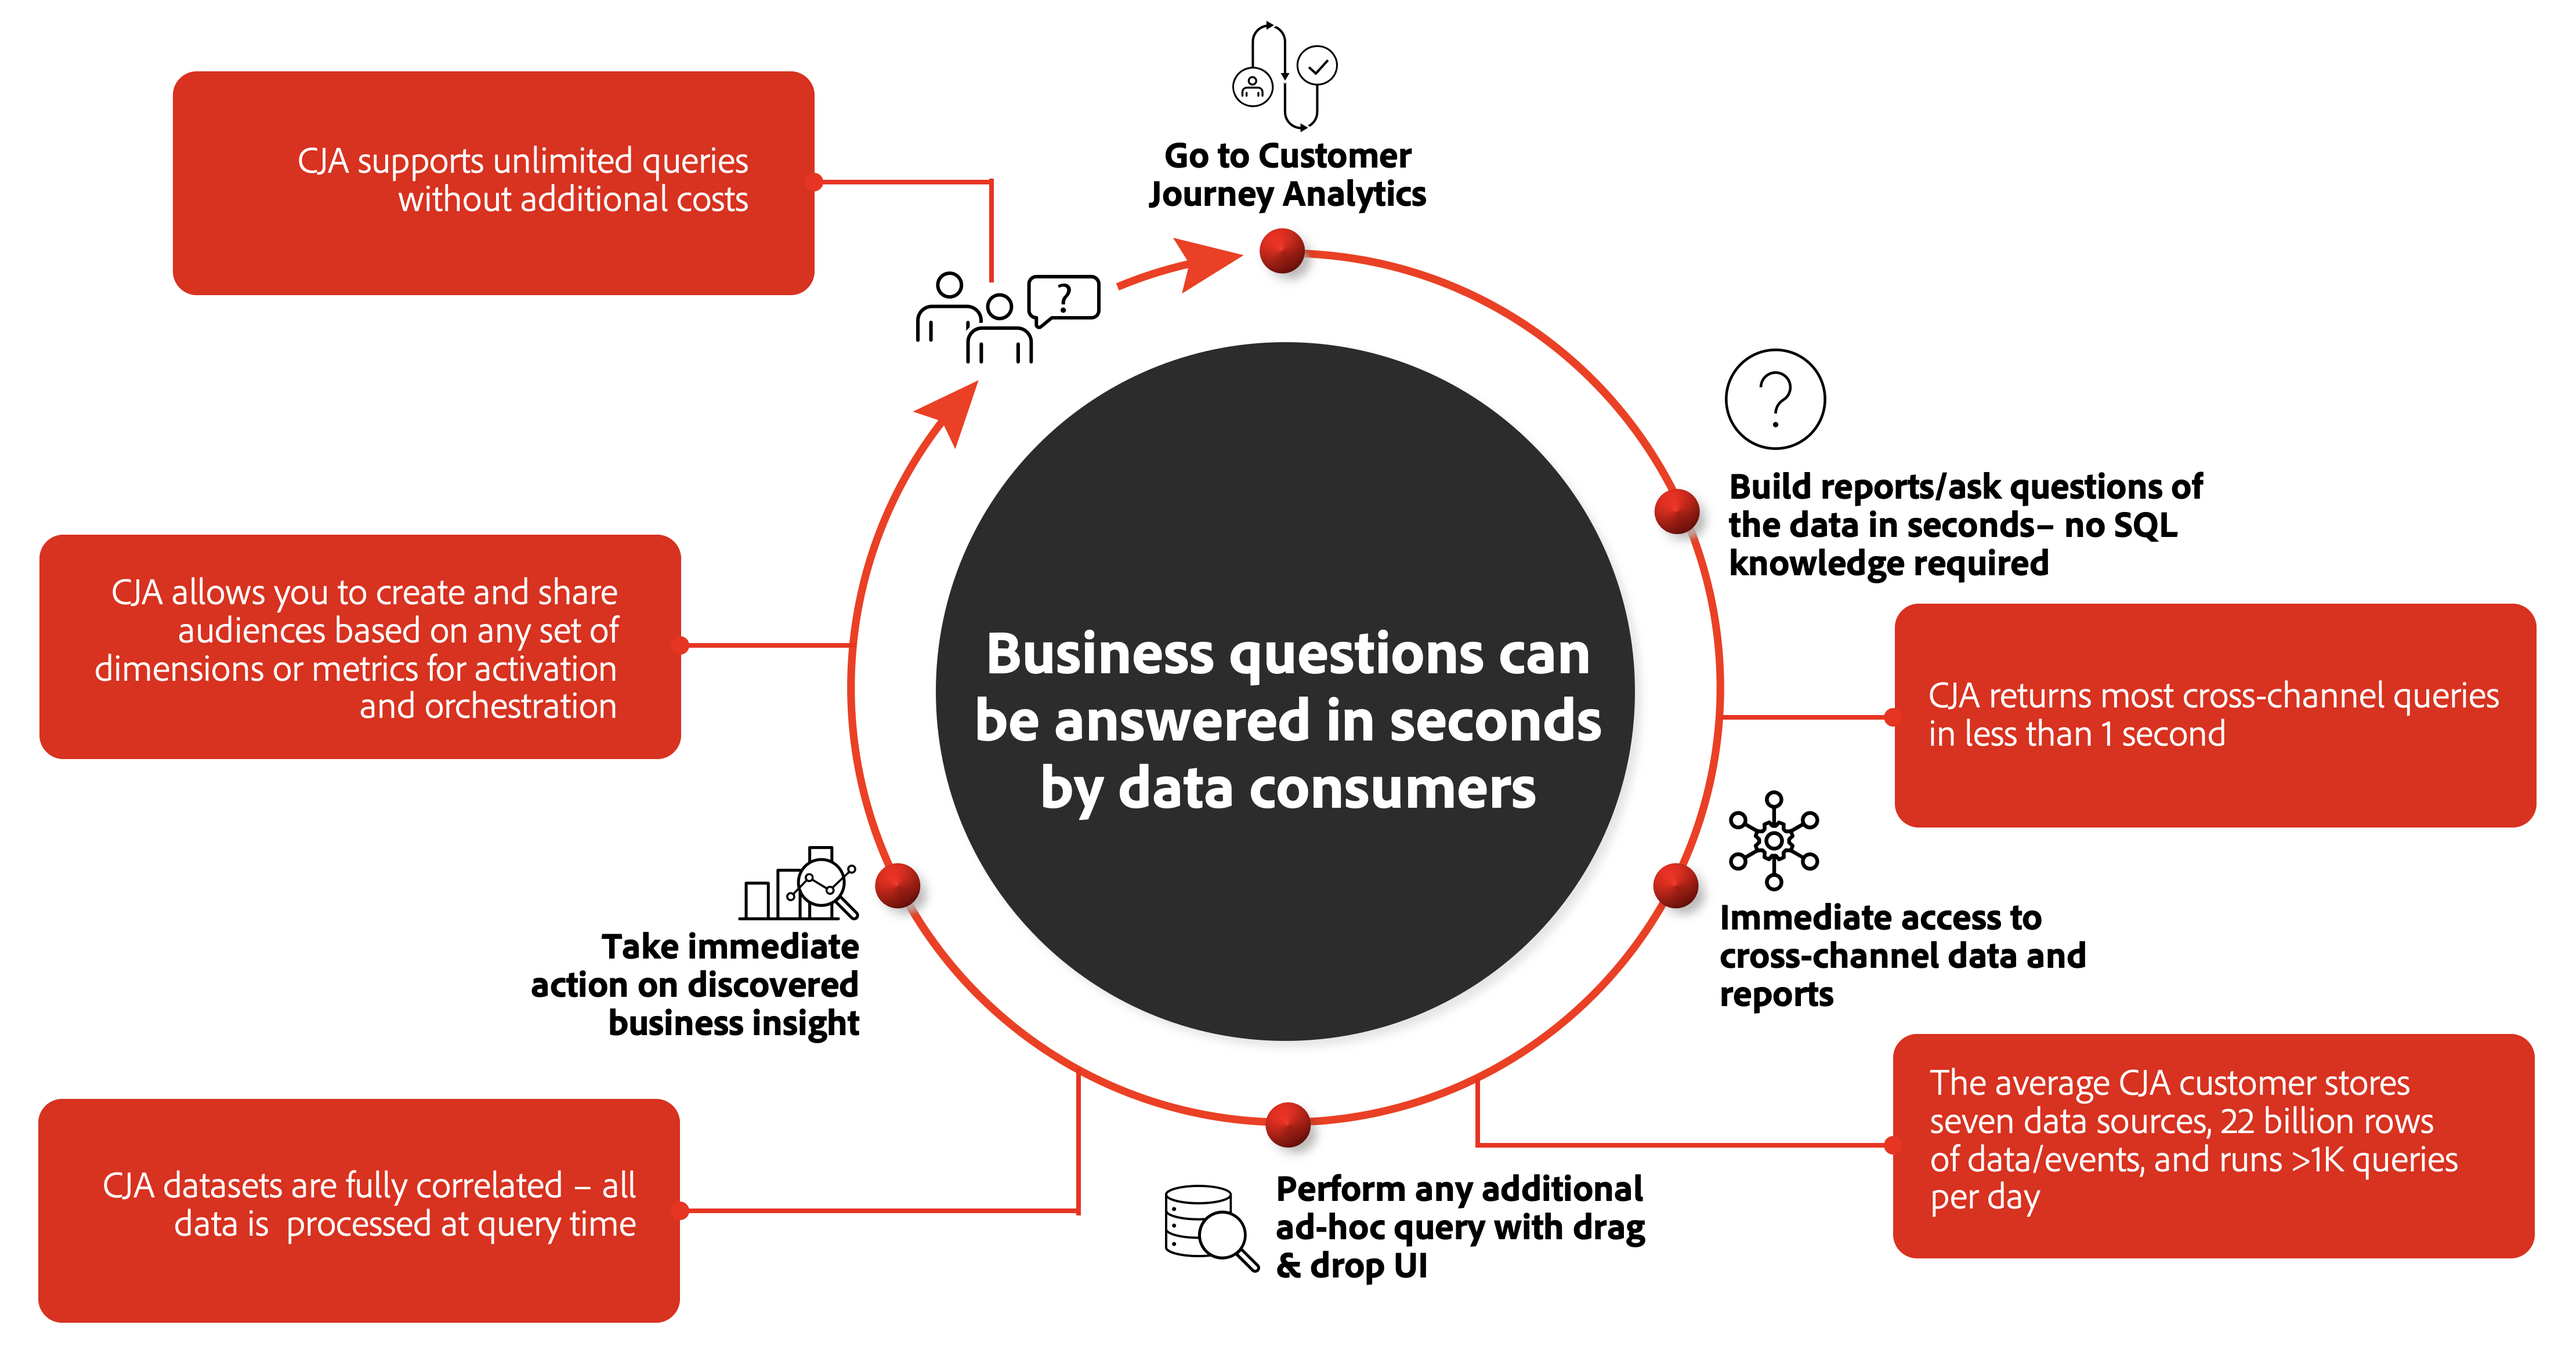
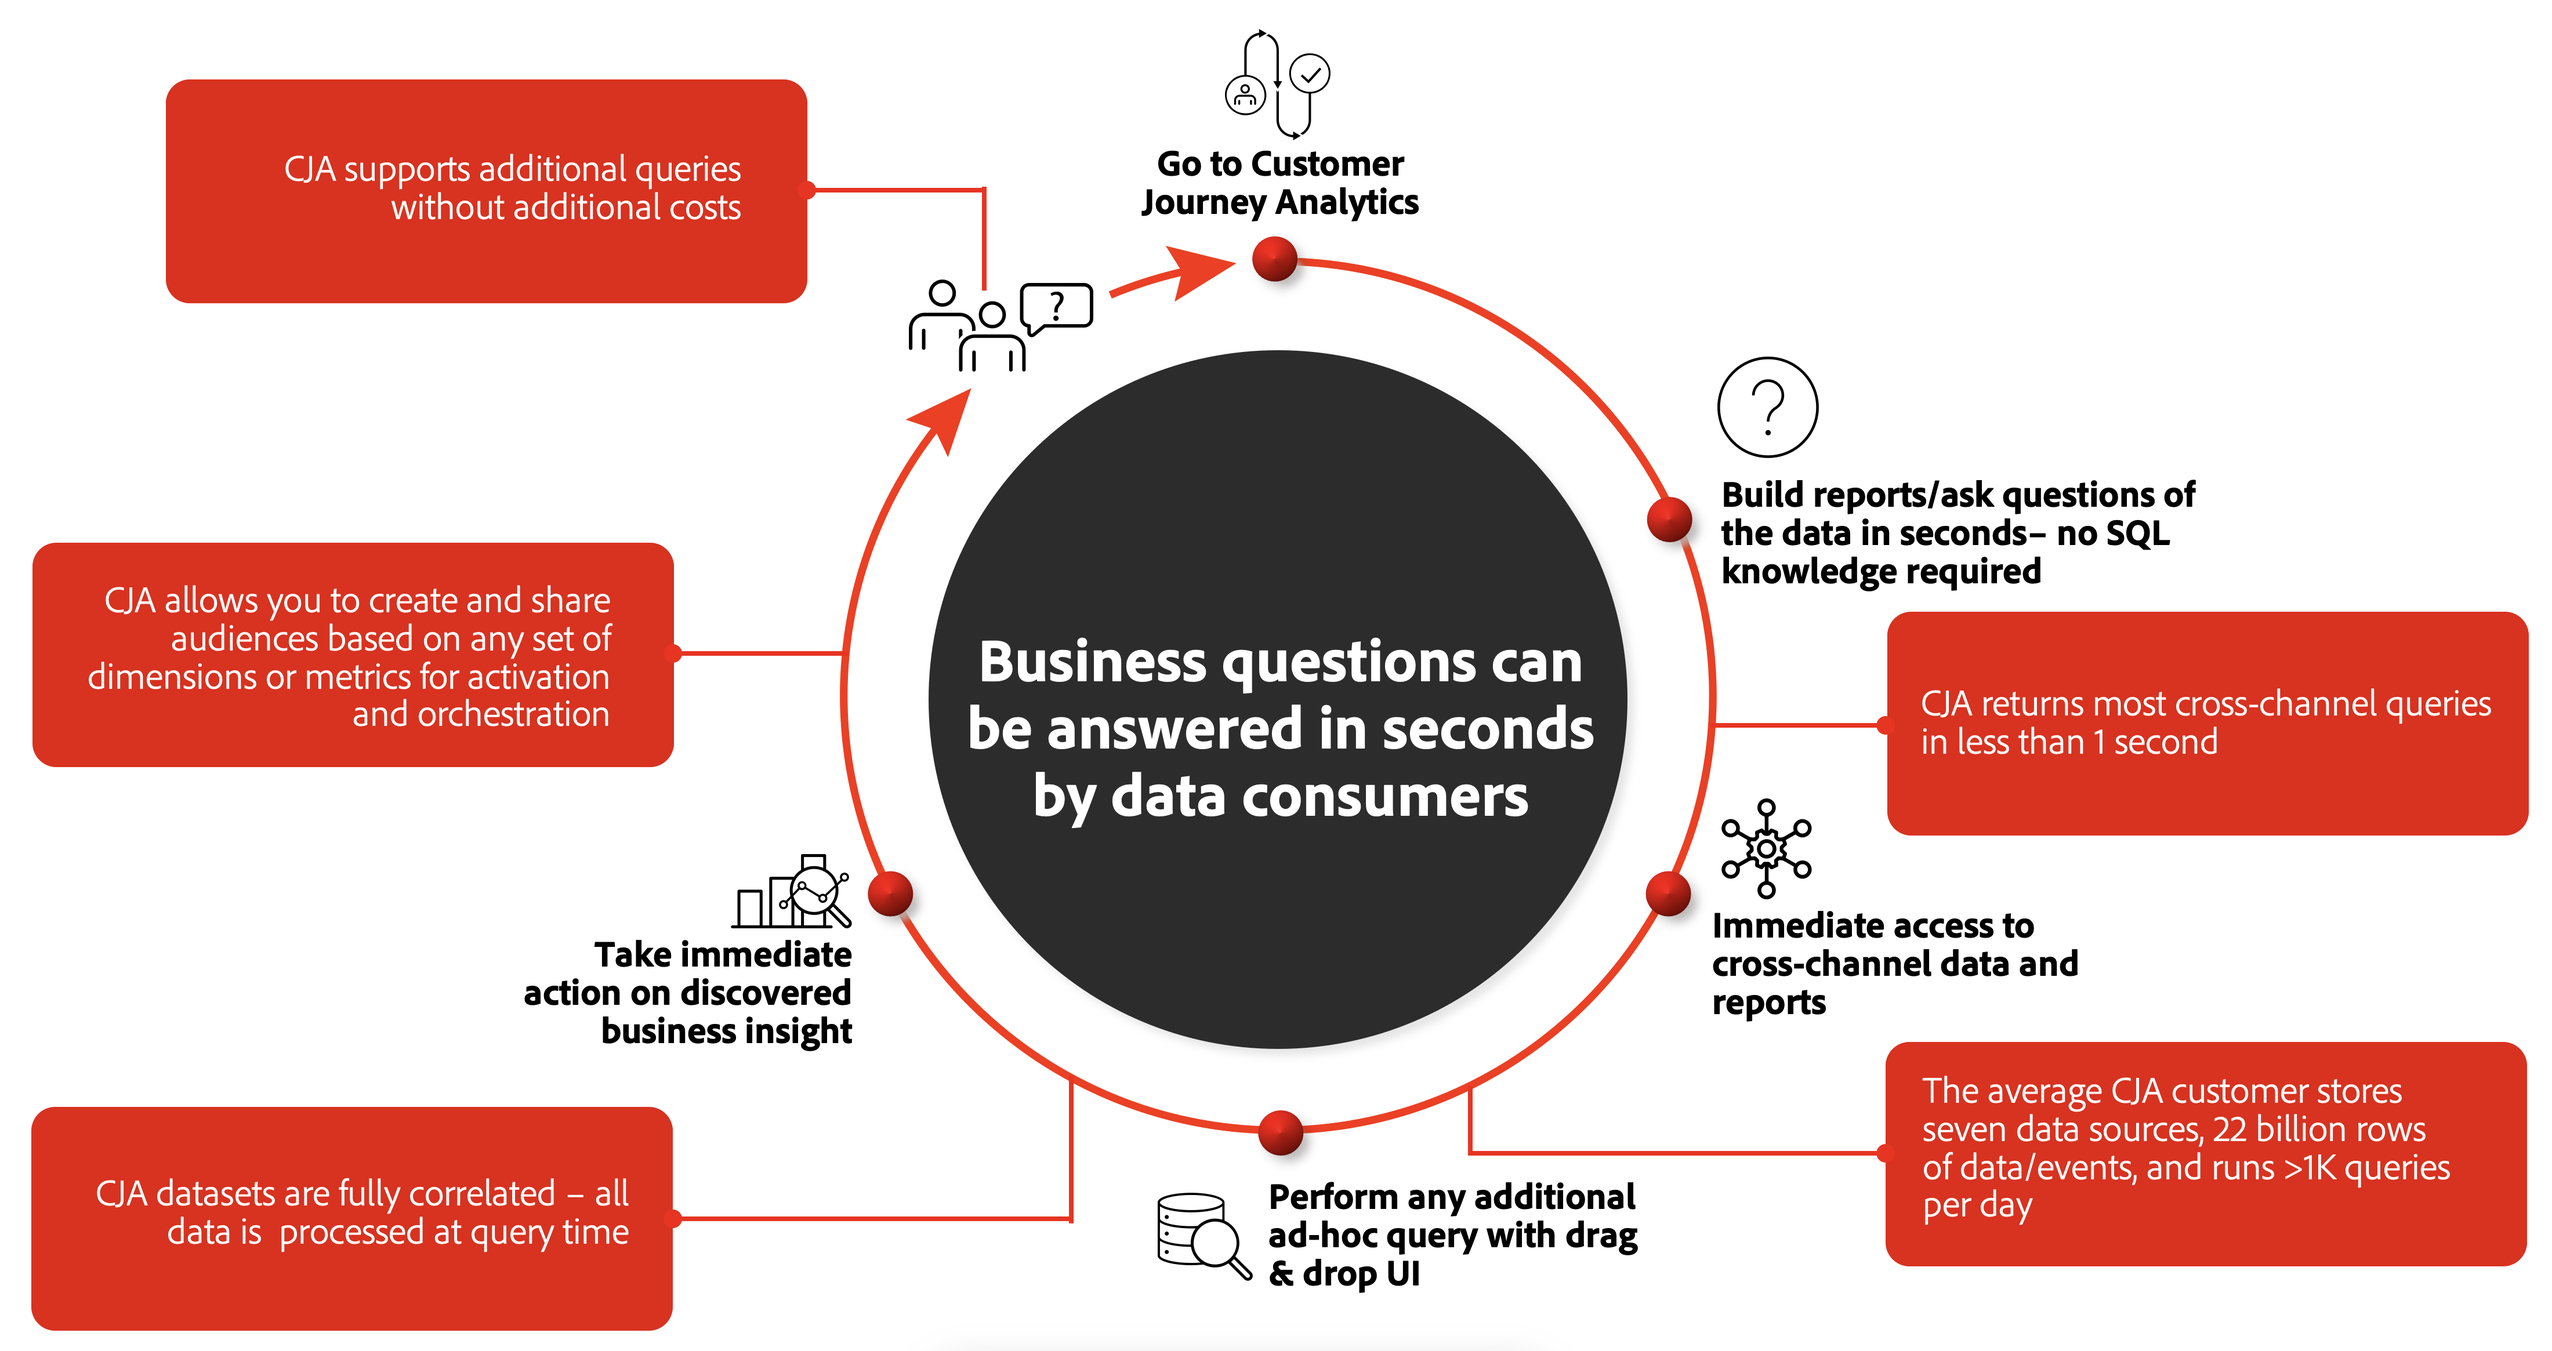
Another update based on feedback
Another update based on feedback

diff --git a/help/getting-started/cja-vs-bi.md b/help/getting-started/cja-vs-bi.md
@@ -36,7 +36,7 @@ You can use CJA to ask questions using the visual analysis workspace environment
 
 CJA uses a powerful proprietary architecture that distributes analysis across hundreds or even thousands of servers to display data in Analysis Workspace within seconds. Some notable properties of this processing architecture include:
 
--   **Optimized for individual customer-related queries**: Technically, CJA stores the data in a distributed reporting engine that makes extensive use of caching. That engine is fine tuned for responsive queries on individual-level time series data, so it is perfectly optimized for individual customer-related queries. The reporting engine stores data in column-oriented bitmap indices that permit rapid on-the-fly calculation of aggregate metrics. It has an extensive filtering engine that permits powerful segmentation/audience analysis. And it has a core understanding of the sequence among data points that is useful in analyzing behavior across those data points (the order that things occurred) and for assigning attribution using various, complex models.
+-   **Optimized for individual customer-related queries**: Technically, CJA stores the data in a distributed reporting engine that makes extensive use of caching. That engine is fine tuned for responsive queries on individual-level event data, and as such perfectly optimized for customer-related queries. The reporting engine stores data in column-oriented bitmap indices that permit rapid on-the-fly calculation of aggregate metrics. It has an extensive filtering engine that permits powerful segmentation/audience analysis. And it has a core understanding of the sequence among data points that is useful in analyzing behavior across those data points (the order that things occurred) and for assigning attribution using various, complex models.
 
 -   **Fast application of complex pathing and filters**: The reporting engine works on partially ordered, hierarchical datasets (for example, person -> sessions -> events), and all data for a top-level object (individual profiles) resides on a single processing node for accurate results. This partitioning allows for fast application of complex pathing and filters. Complex operations such as sessionization, attribution, stateful persistence of data attributes, and complex data manipulation options are executed at scale with fast reporting time. In the BI world, those types of operations typically require new OLAP cubes to be created for each use case. CJA's reporting engine allows unfettered access to the entire dataset on every query resulting in fully correlated data without requiring any cubing ahead of time.
 
@@ -50,7 +50,7 @@ CJA uses a powerful proprietary architecture that distributes analysis across hu
 
 The reporting engine is fundamental for CJA to allow you to progressively interact with and act on all the customer journey data within that reporting engine. CJA comes with an extensive set of components that empower you to do this visually and through drag-and-drop. BI visualization tools allow you to explore within the boundaries of SQL prepared data (as defined by IT). CJA allows you to breakdown and slice-and-dice as much as you want without having to go back to IT to build yet another SQL view.  
 
-Progressively is a key concept here: contrary to most visualizations in BI tools, the visual drag-and-drop UI in CJA allows you to continuously break down your data for your specific needs: interactively build queries visually  using relevant metrics, dimensions, filters (segments), calculations, time lines, annotations, and other analysis values.
+Progressively is a key concept here: contrary to most visualizations in BI tools, the visual drag-and-drop UI in CJA allows you to continuously break down your data for your specific needs: interactively build queries visually using relevant metrics, dimensions, filters (segments), calculations, time lines, annotations, and other analysis values.
 
 Built-in with these visualization components are smart capabilities like:
 
